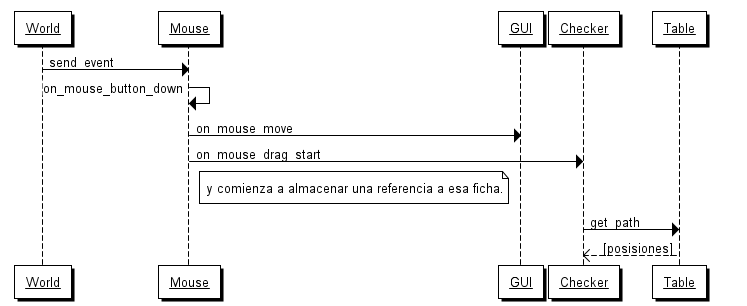
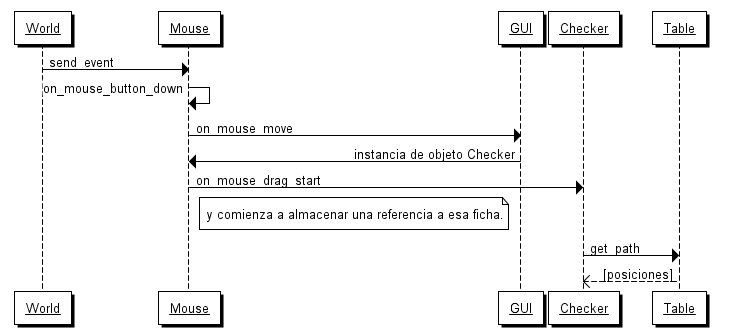
actualizando la documentacion.

diff --git a/doc/como_funciona/como_funciona.html b/doc/como_funciona/como_funciona.html
@@ -21,7 +21,6 @@
     <LI><A HREF="#toc2">Funcionalidad</A>
       <UL>
       <LI><A HREF="#toc3">Bucle principal</A>
-      <LI><A HREF="#toc4">Eventos de aplicación</A>
       </UL>
     </UL>
   </UL>
@@ -32,30 +31,45 @@
 <H1>Introducción</H1>
 <P>
 Este documento es una reseña breve del funcionamiento del juego
-<I>Another Checkers Game</I>.
+<I>Another Checkers Game</I>. Se utiliza como punto de partida para
+nuevos programadores y para investigar la forma de mejorar su
+funcionalidad.
+</P>
+<P>
+Si quiere realizar camibios en el código del programa le recomendamos
+leer este documento y consultar el código a la vez; dado que ambos
+tratan sobre la misma estrategia pero en diferente profundidad.
 </P>
 <A NAME="toc2"></A>
 <H2>Funcionalidad</H2>
 <A NAME="toc3"></A>
 <H3>Bucle principal</H3>
 <P>
-El objeto encargado de contener al bucle principal es <CODE>World</CODE>, este objeto
-contiene el método <CODE>loop</CODE> y una referencia a un objeto <CODE>Clock</CODE>.
+Como se busca que el videojuego sea totalmente interactivo, mostrando
+animaciones o transiciones, se ha optado por actualizar la pantalla
+de juego en base a un bucle, como en los juegos de acción.
 </P>
 <P>
-En cada iteración del bucle se obtienen todos los eventos de la aplicación
-y se propagan a otros componentes del sistema.
+El objeto encargado de contener al bucle principal es <CODE>World</CODE>, este objeto
+contiene el método <CODE>loop</CODE> y una referencia a un objeto <CODE>Clock</CODE> para
+mantener la velocidad constante en diferentes equipos.
+</P>
+<P>
+En la jerarquía de objetos, <CODE>World</CODE> es responsable de actualizar la
+pantalla, mantener la velocidad constante del juego y propagar eventos.
+</P>
+<P>
+El siguiente diagrama muestra el orden de las llamadas e interacción
+entre objetos del bucle principal:
 </P>
 <P>
 <IMG ALIGN="middle" SRC="ima/loop.png" BORDER="0" ALT="">
 </P>
-<A NAME="toc4"></A>
-<H3>Eventos de aplicación</H3>
 <P>
-En el método <CODE>loop</CODE> de <CODE>World</CODE> se capturan todos los eventos de la
-aplicación. Lo eventos mas frecuentes se propagan a la clase <CODE>Mouse</CODE>.
+La mayor parte del comportamiento del programa se encuentra inspeccionando
+el método <CODE>send_event</CODE> de la clase <CODE>Mouse</CODE>.
 </P>
-<H4>Al pulsar el botón del mouse</H4>
+<H4>Caso de ejemplo: Al pulsar el botón del mouse</H4>
 <P>
 Cuando el objeto <CODE>Mouse</CODE> recibe la notificación del evento
 <CODE>MOUSEBUTTONDOWN</CODE> intercambia mensajes con los objetos de la
@@ -70,8 +84,21 @@ la referencia a la ficha que espera comenzar a mover.
 <IMG ALIGN="middle" SRC="ima/mouse_down.png" BORDER="0" ALT="">
 </P>
 <P>
-La respuesta de <CODE>Table</CODE> en una lista todas los caminos
-posibles para la pieza. 
+Siguiendo el diagrama anterior, imagine una situación donde el usuario
+hace <CODE>click</CODE> sobre una ficha. El objeto <CODE>World</CODE> envía el mensaje
+<CODE>send_event</CODE> a <CODE>Mouse</CODE>. <CODE>Mouse</CODE> detecta que ha seleccionado una
+ficha cuando le responde <CODE>GUI</CODE> le devuelve una instancia a objeto
+<CODE>Checker</CODE>.
+</P>
+<P>
+Luego, <CODE>Mouse</CODE> busca conocer a que posiciones podrá mover esa pieza. Para
+ello sirve la llamada al método <CODE>get_path</CODE> del objeto <CODE>Table</CODE>.
+</P>
+<P>
+La respuesta de <CODE>Table</CODE> menciona todas las posiciones en donde podrá
+colocar esta pieza en caso de realizar un movimiento. Es importante observar
+la estructura de este valor. Es una lista con todos los casilleros que puede
+utilizar.
 </P>
 <P>
 A continuación se muestran algunos ejemplos:
@@ -93,7 +120,8 @@ está ocupada:
 <P></P>
 <P>
 Si está en una situación similar a las anteriores, pero una
-pieza en la posición (3, 4) se puede comer:
+pieza en la posición (3, 4) se puede comer. La repuesta
+podría ser de la siguiente forma:
 </P>
 <PRE>
 [[(4, 5), (3, 4)], [(4, 7)]]
@@ -111,10 +139,17 @@ celdas del tablero:
 <P>
 <IMG ALIGN="middle" SRC="ima/tablero.png" BORDER="0" ALT="">
 </P>
-<H4>Al mover el mouse</H4>
 <P>
-Realiza una tarea similar al evento de pulsar el mouse, solo que aquí
-el evento se utiliza para transmitir significado visual al jugador.
+Dentro del juego resultan útiles las dos numeraciones, note que las
+celdas que se pueden ocupar se identifican por un solo número. Mientras
+todas las posiciones de la tabla, independientemente de si se pueden
+utilizar o no, se identifican por tuplas de la forma (fila, columna).
+</P>
+<H4>Caso de ejemplo: Al mover el mouse</H4>
+<P>
+Realiza una tarea similar al evento de pulsar el <CODE>Mouse</CODE>, solo
+que aquí el evento se utiliza para transmitir significado visual
+al jugador.
 </P>
 <P>
 Cuando el usuario mueve el mouse, en todo momento se consulta si
@@ -133,6 +168,10 @@ mouse traducional.
 <P>
 Si el objeto <CODE>Mouse</CODE> ya ha detectado con anterioridad la
 pulsación sobre un elemento entonces comienza a arrastrarlo.
+</P>
+<H4>Caso de ejemplo: Al solar una ficha</H4>
+<P>
+....
 </P>
 </DIV>
 
